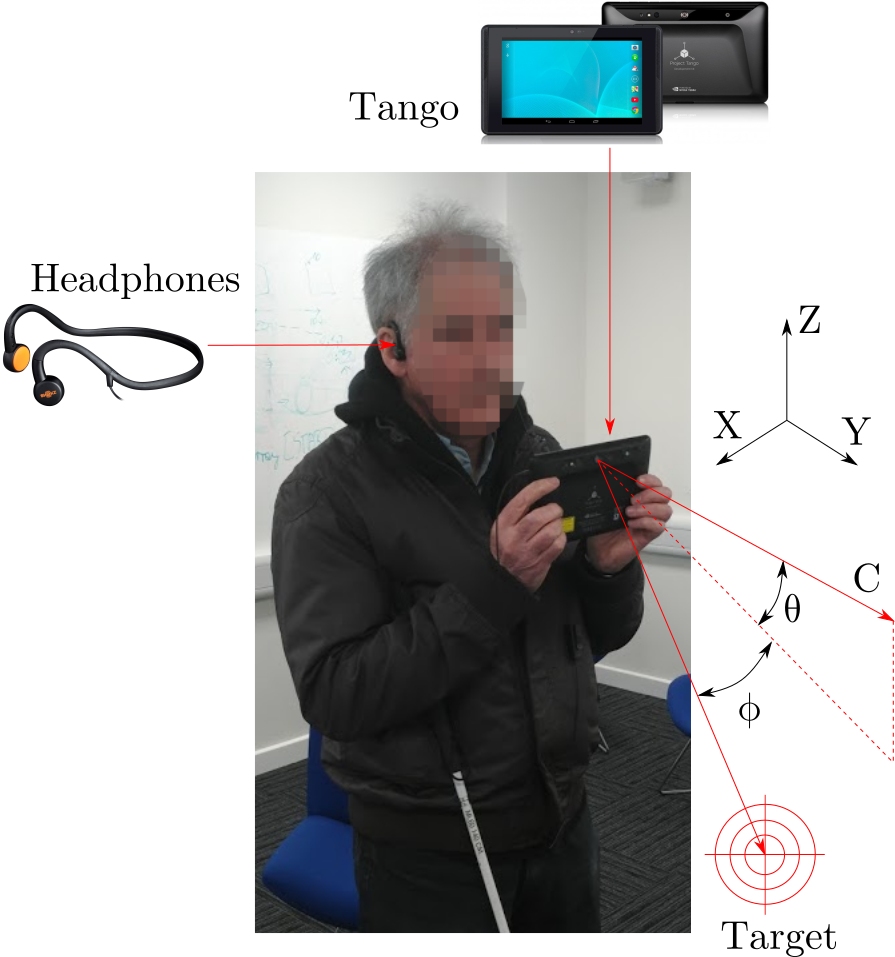
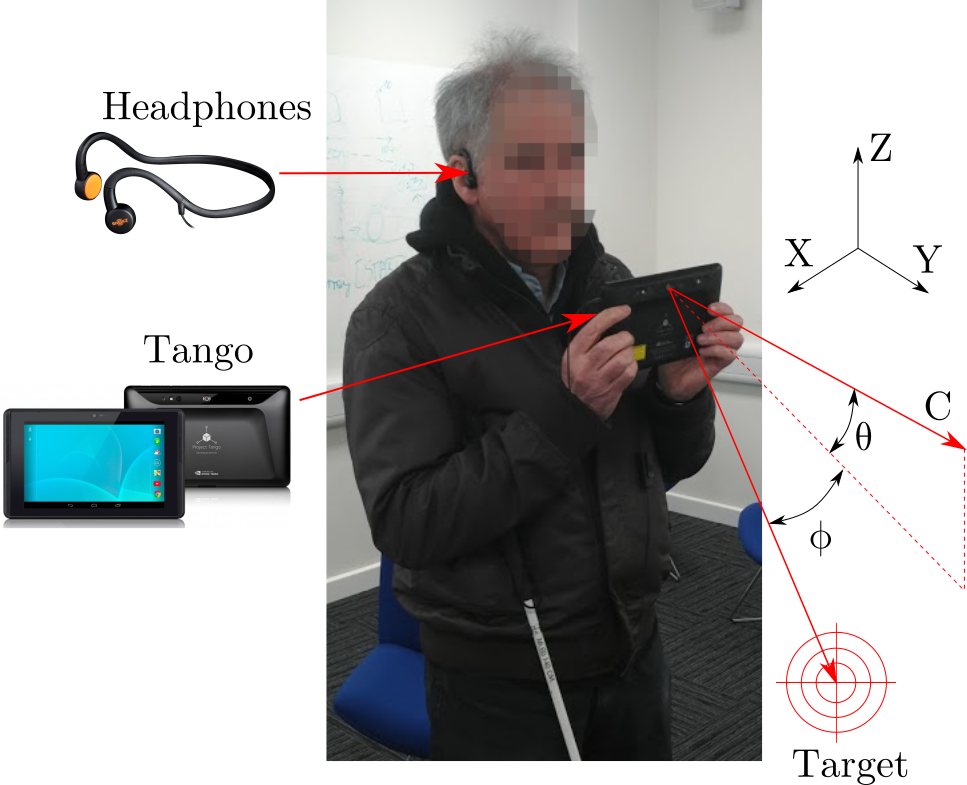
Minor changes to figure 1

diff --git a/paper.tex b/paper.tex
@@ -136,7 +136,7 @@ These headphones have the benefit of not interfering with a user's normal hearin
   %\subfloat[]{\label{fig:tango-headphone}\includegraphics[width=0.5\columnwidth]{figures/tango_tablet_headphone_edit.pdf}}
 %~
   %\subfloat[]{\label{fig:participant}\includegraphics[width=0.8\columnwidth]{figures/vi_participant_e.png}}
-  \includegraphics[width=0.7\columnwidth]{figures/vi_participant_e.png}
+  \includegraphics[width=0.65\columnwidth]{figures/vi_participant_e.png}
   \caption{The Tango tablet and bone-conduction headphones in use during an experiment. The angle reference system that the guidance instructions are based on is also included , showing the camera vector, $C$, and the pan and elevation angles to the target. Adapted from~\citet{lock2019bone}.}\label{fig:participant}
   \Description{The Tango tablet and the bone-conduction headphones, the primary hardware components used in this work, and a participant with visual impairments using the system during an experiment.}
 \end{figure}

diff --git a/review/response/response.tex b/review/response/response.tex
@@ -5,13 +5,13 @@
 \title{Experimental Analysis of a Spatialised Audio Interface for People with Visual Impairments}
 \subtitle{Rebuttal to Reviewers}
 
-\author{JC Lock; ID Gilchrist; G. Cielniak; N Bellotto}
+\author{J.C. Lock; I.D. Gilchrist; G. Cielniak; N. Bellotto}
 
 \maketitle
 
 \noindent Dear associate editors and reviewers,
 
-We would first like to sincerely thank you for your honest and helpful feedback on our work.
+We would first like to sincerely thank you all for taking the time for reviewing our work and for your honest and helpful feedback.
 We have taken some time to go over and implement your suggestions and we believe that we can resubmit to you an improved version of the paper. 
 Please find below our responses to your comments and suggestions, where we point out how we addressed them.
 
